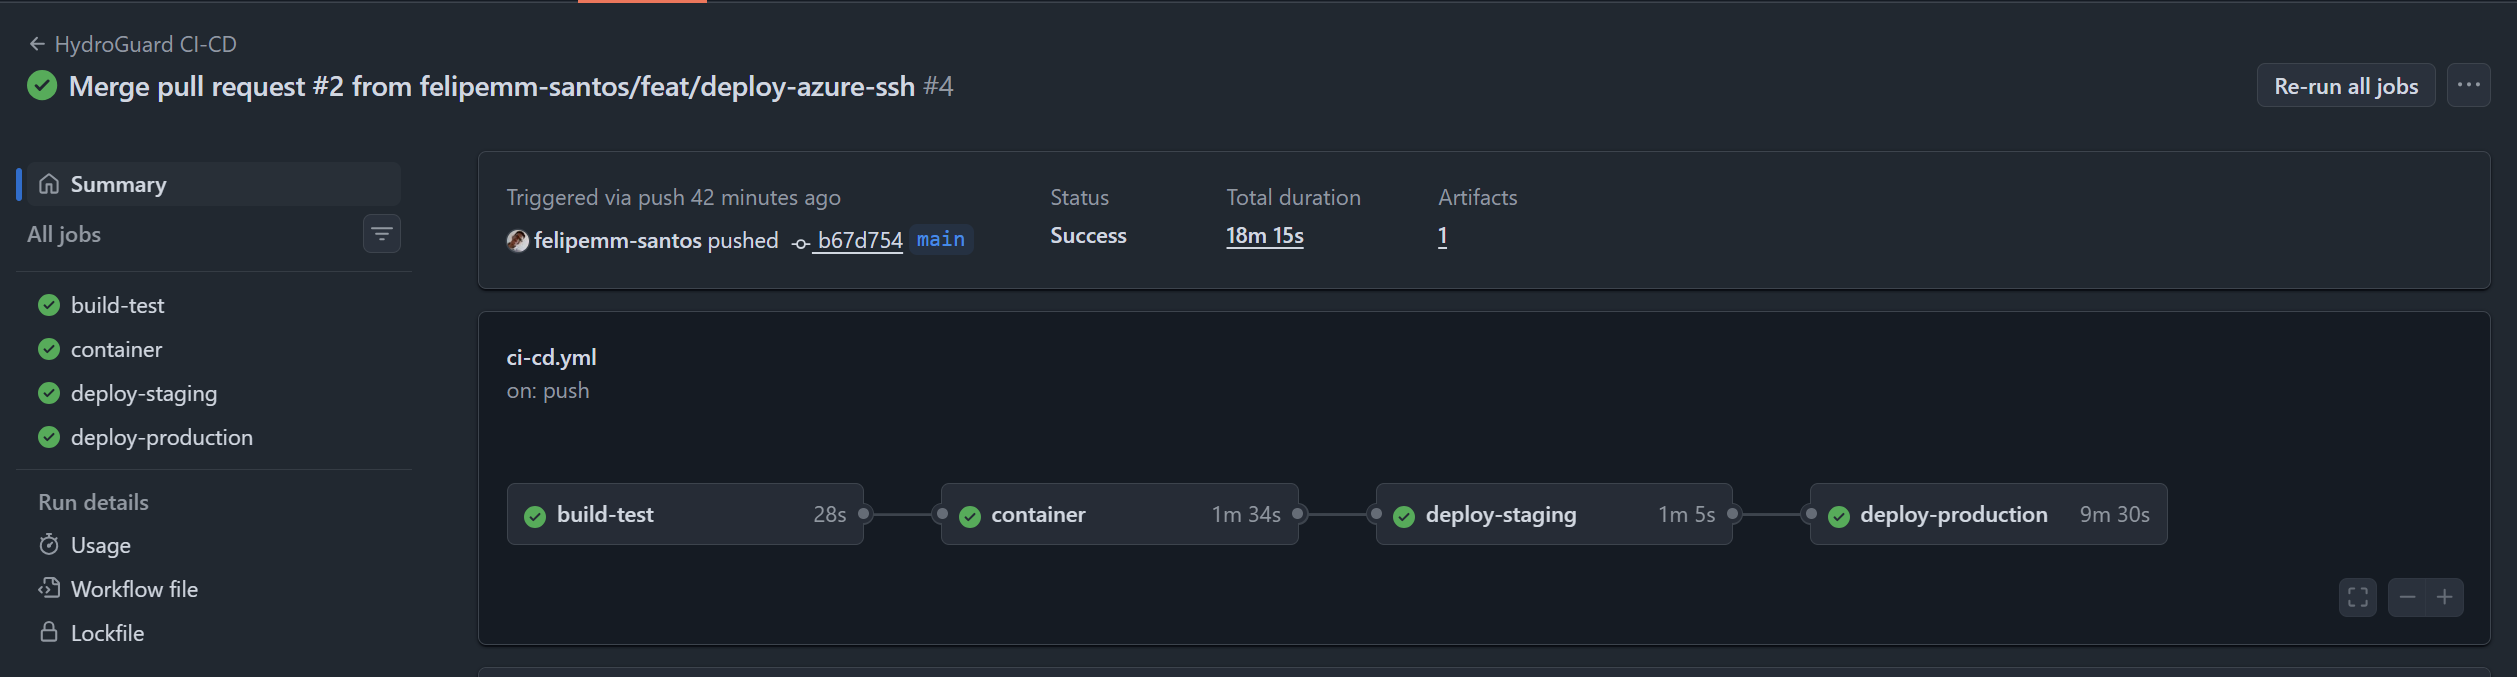
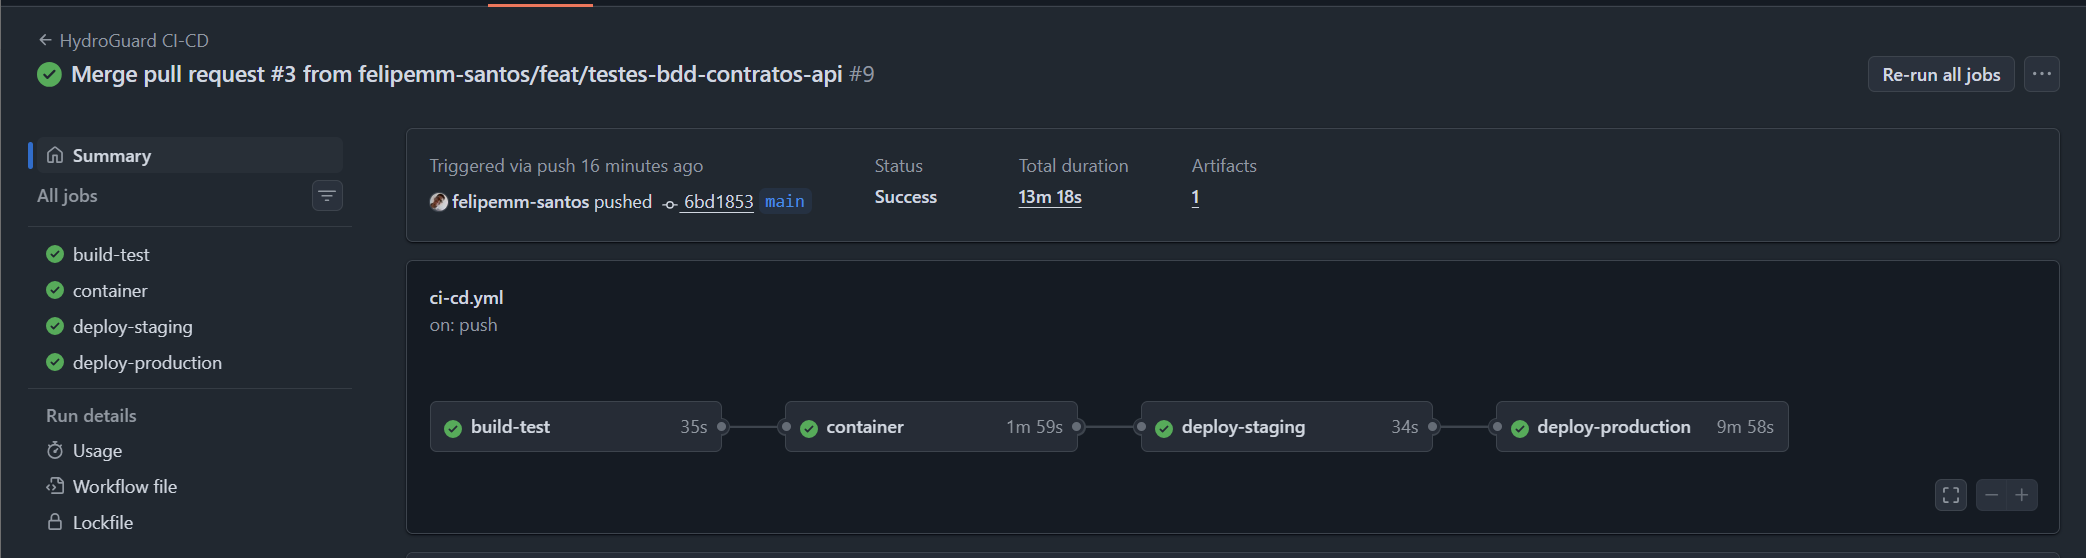
docs: adicionar evidencias dos testes no GitHub Actions

diff --git a/README.md b/README.md
@@ -164,13 +164,13 @@ Evidências da execução **#4** do workflow `HydroGuard CI-CD` (commit `b67d754
 
 ### Pipeline
 
-**Execução completa com os 4 jobs aprovados** (build-test 28s, container 1m 34s, deploy-staging 1m 5s, deploy-production 9m 30s; total 18m 15s):
+**Execução completa com os 4 jobs aprovados** (build-test 35s, container 1m 59s, deploy-staging 34s, deploy-production 9m 58s; total 13m 18s):
 
 ![Resumo do pipeline](docs/prints/01-pipeline-resumo.png)
 
-**Testes automatizados: 20 aprovados, 0 falhas:**
+**Testes automatizados: 29 aprovados, 0 falhas:**
 
-![Testes](docs/prints/02-testes-20-passed.png)
+![Testes](docs/prints/02-testes-29-passed.png)
 
 ### Staging (porta 5001)
 
